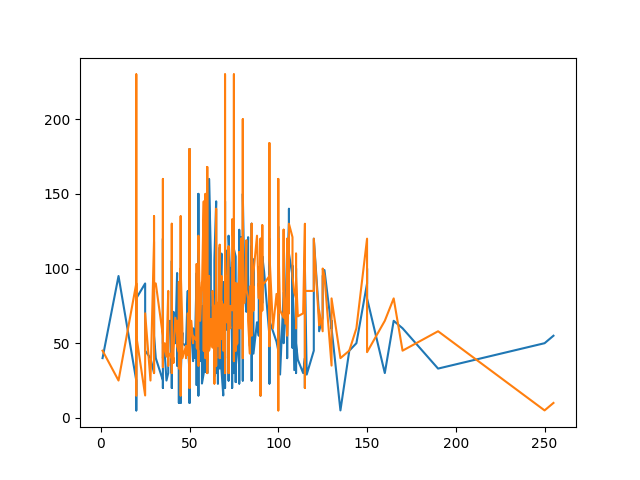
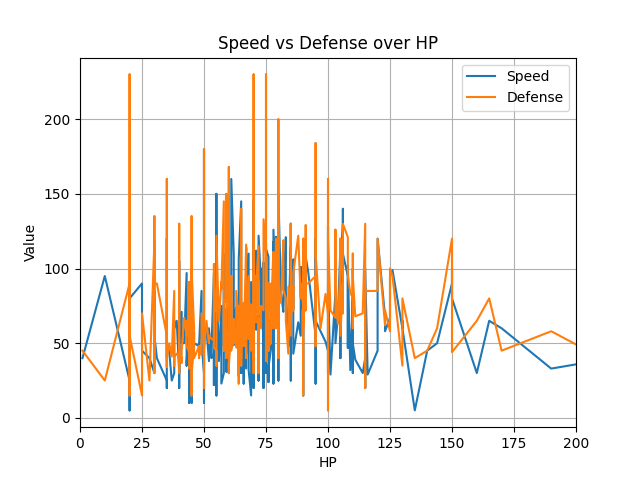
update pd_csv with merges, correlations, and some more plotting

diff --git a/Week4/PandasDemo/pd_csv.py b/Week4/PandasDemo/pd_csv.py
@@ -4,28 +4,94 @@ import matplotlib.pyplot as plt
 
 path = './../../SourceData/pokemon.csv'
 
+# The "old school" read of a csv (which is usefull to make sure we have the right path, and that the data is what we expect!)
 # with open(path, 'r') as file:
 #     reader = csv.reader(file)
 #     next(reader)
 #     for row in reader:
 #         print(*row)
 
+# The Pandas way of helping us out, letting us read and transform data into a dataframe in one command!
 df = pd.read_csv(path, index_col='ID', usecols=['ID', 'Total', 'HP', 'Attack', 'Defense', 'Speed'])
 # print(df[['Name','Generation']])
 
+df.sort_values('HP', inplace=True)
+#print(df)
+
+
+# Correlations: (-1) - (1) range, higher abs value indicates a more direct correlation, lower abs value indicates less correlation
+# Some good indications - high and low values, identity values (1-to-1 correlation) across the diagonal
+# print(df.corr())
+
+
+# Merge:
+    # - have a value in common
+    # - what method of join/merge to perform
+        # - inner, outer, left, right, cross, self
+
+print("Data Set A")
+a = {"A": [1, 2, 3, 4, 5, 8, 9],
+     "B":[2, None, 4, 5, 6, 9, 10],
+     "C":[3, 4, 5, 6, 7, 10, 11]}
+A = pd.DataFrame(a)
+print(A)
+
+print()
+print("DataSet B")
+b = {"A": [1, 2, 3, 4, 5, 6, 7],
+     "D":[2, 3, 4, 5, 6, 7, 8],
+     "E":[3, 4, 5, None, 7, 8, 9]}
+B = pd.DataFrame(b)
+print(B)
+
+# print()
+# print("Inner Merge")
+# print(A.merge(B, "inner")) # only keep matching entries that appear on both data sets
+
+# print()
+# print("Outer Merge")
+# print(A.merge(B, "outer")) # keep ALL entries that appear on ALL data sets (and fill missing values with "None")
+
+# print()
+# print("Left Merge")
+# print(A.merge(B, "left")) # kept all of the entries from "the left", and any entry with a matching value on "the right"
+
+# print()
+# print("Right Merge")
+# AB = A.merge(B, "right").interpolate() # kept all of the entries from "the right", and any entry with a matching value on "the left"
+# print(AB)
+
+# We can exmine the correlation of merged data:
+# print(AB.corr())
+
+# And graph it out for a visual too!:
+# fig, ax = plt.subplots()
+# ax.scatter(AB['A'], AB['B'])
+# ax.scatter(AB['A'], AB['E'])
+# ax.set(xlabel="A", ylabel="Value", title="B vs E over A")
+# ax.legend(("b", "e"))
+# fig.savefig("ABE.png")
 
 # Histogram
-#plt.hist(df['HP'])
-#plt.show()
-#plt.savefig("HP_Histogram.png")
+# plt.hist(df['HP'])
+# plt.show()
+# plt.savefig("HP_Histogram.png")
 
 # Scatter plotting
 # plt.scatter(df['Attack'], df['Defense'])
 # plt.savefig("attack_defense.png")
 
+# plt.plot(df['HP'], df['Speed'])
+# plt.plot(df['HP'], df['Defense'])
+# plt.savefig("HP-Speed-Line.png")
 
-df.sort_values('HP', inplace=True)
-print(df)
-plt.plot(df['HP'], df['Speed'])
-plt.plot(df['HP'], df['Defense'])
-plt.savefig("HP-Speed-Line.png")
+fig, ax = plt.subplots()
+ax.plot(df['HP'], df['Speed'])
+ax.plot(df['HP'], df['Defense'])
+ax.set(xlabel="HP", ylabel="Value", title="Speed vs Defense over HP")
+ax.set_xscale('linear')
+ax.set_yscale('linear')
+ax.set_xlim(0, 200)
+ax.grid()
+ax.legend(('Speed','Defense'))
+fig.savefig("HP-Speed-Line.png")

diff --git a/Week4/PandasDemo/pandas_basics.py b/Week4/PandasDemo/pandas_basics.py
@@ -1,6 +1,6 @@
 import pandas as pd
 
-#print("hello again everyone!")
+# print("hello again everyone!")
 
 # pandas comes with two structures that we can interact with: Series and DataFrames
 
@@ -23,6 +23,8 @@ new_row = {'Names': 'Jonathan', 'Age':28, 'City': 'Miami'}
 new_row_df = pd.DataFrame([new_row])
 df = pd.concat([df, new_row_df], ignore_index=True)
 
+
+# I know, usually the imports are done at the top of the file, but I didn't need it until now
 from csv import writer
 from io import StringIO #ByteIO let us treat the strings or the bytes like a file object - in memory - for reading and writing
 
@@ -30,7 +32,7 @@ output = StringIO()
 df.to_csv(output)
 csv_writer = writer(output)
 new_row = [[6, 'Charles', 30, 'Philadelphia'],[7,'Emily',35, 'Reston'],[8,'Kurt',40,'Reston']]
-#csv_writer.writerow(str(item) for item in new_row)
+# csv_writer.writerow(str(item) for item in new_row)
 for row in new_row:
 #    csv_writer.writerow(str(item) for item in row)
     csv_writer.writerow(row) #for item in row)
@@ -54,7 +56,7 @@ old_folks_again.reset_index(drop=True, inplace=True)
 
 # Add a new column of values
 df.insert(3, "Bonus", 80000)
-#df['Salary'] = 70000 # fill the column with one value
+# df['Salary'] = 70000 # fill the column with one value
 df['Salary'] = [50000, 60000, 70000, 65000, 55000, 80000, 850000, 100000, 110000] # fill a column with a list of values
 
 # Overwrite a single value (based on entry values)
@@ -73,7 +75,7 @@ df.replace({"Bonus": 80000}, 8000, inplace=True)
 df = df.sort_values(by='Age', ascending=False)
 
 # We can chain together methods if they return a value that the next method can accept!
-#print(old_folks.reset_index(drop=True).replace({'City': 'Reston'}, 'New York').sort_values(by='Age'))
+# print(old_folks.reset_index(drop=True).replace({'City': 'Reston'}, 'New York').sort_values(by='Age'))
 
 
 df['Salary'] = [50000, None, 70000, None, 55000, None, 85000, 100000, None]
